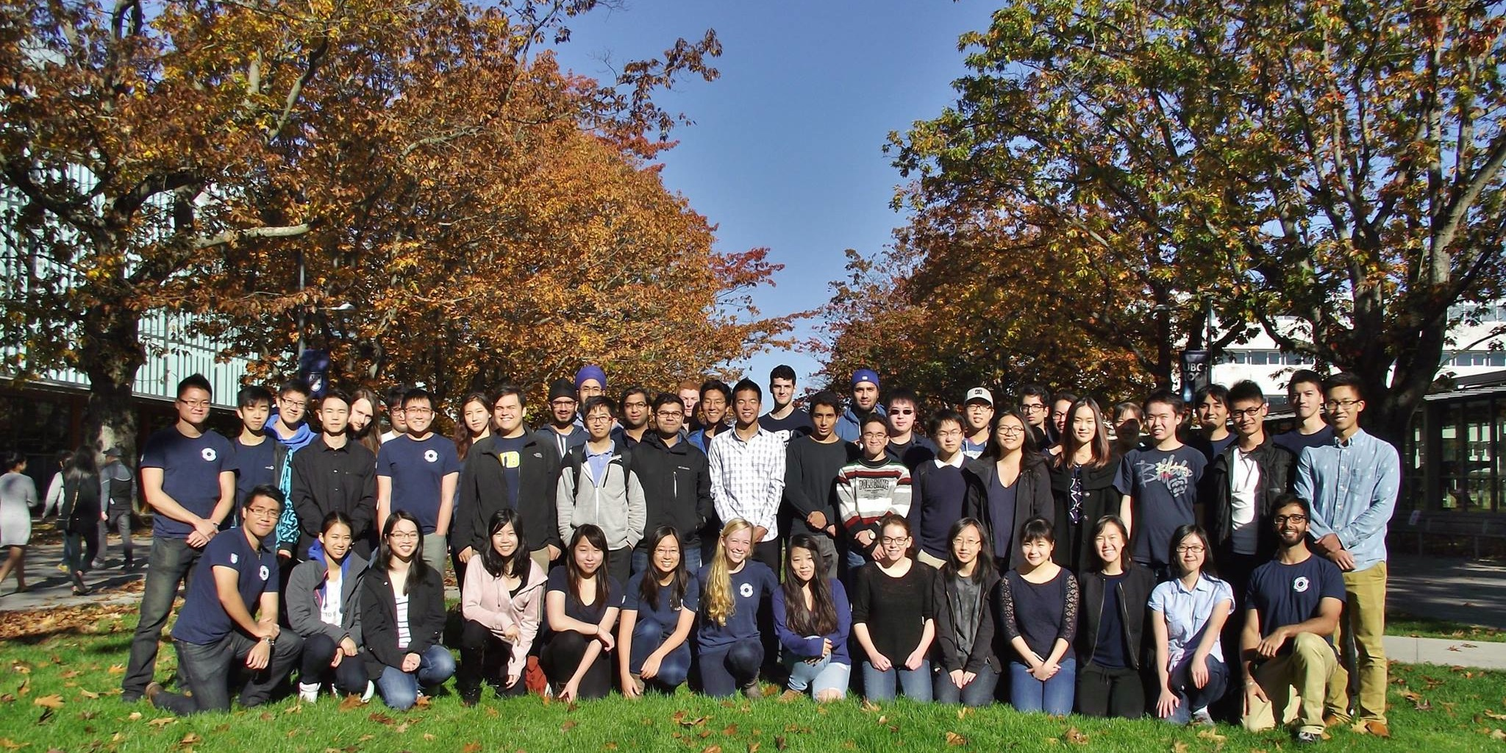
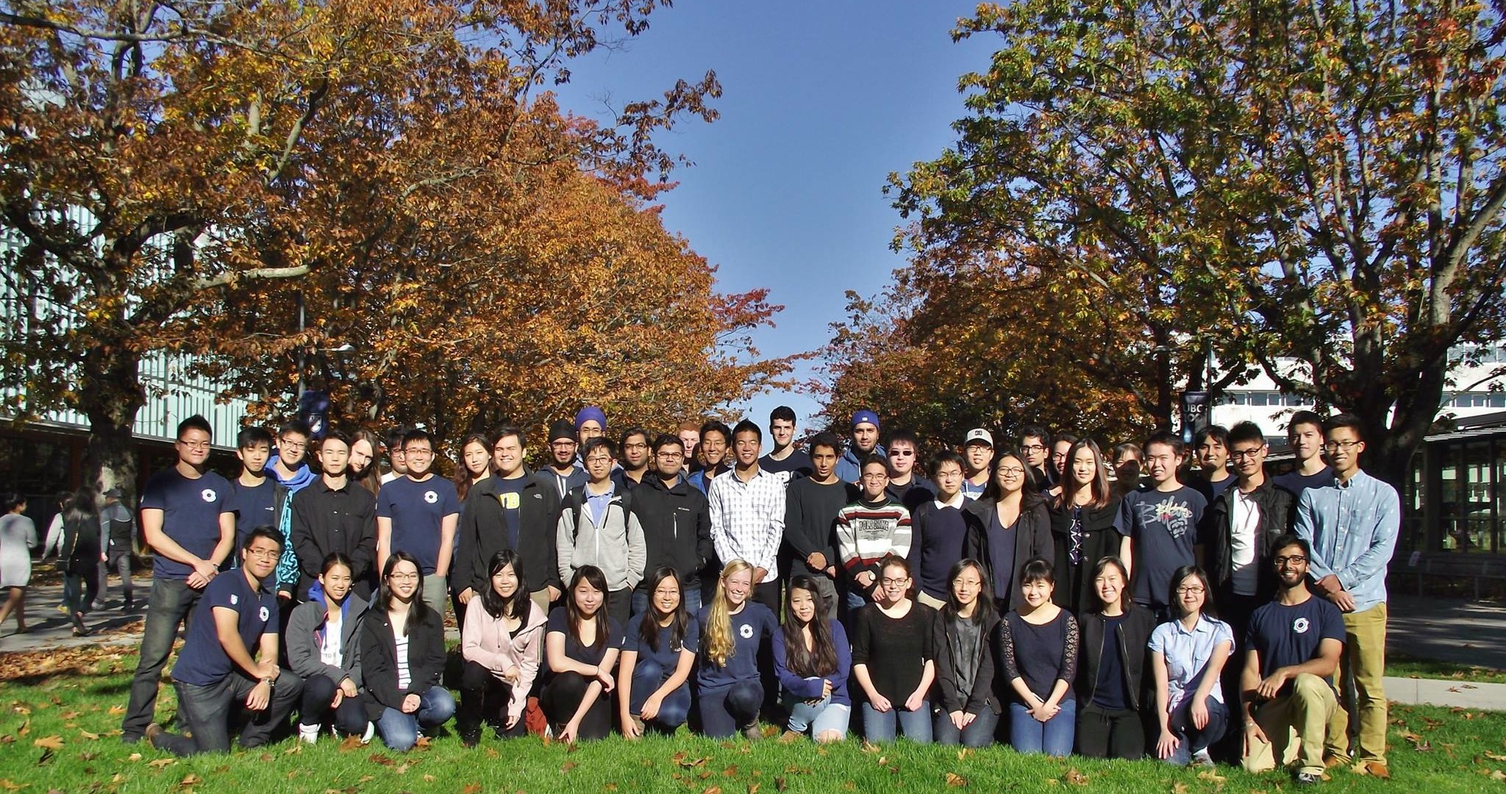
Updated bg photo for team page

diff --git a/Roster/index.html b/Roster/index.html
@@ -145,41 +145,6 @@
     				</div>
 				</div>
            </div>
-           <!--end of row 1, start of row 2-->
-		    <div class = "row">
-				<div class = "col-md-3">
-					<div class="thumbnail">
-					  <img data-src="holder.js/300x200" alt="">
-					  <h4>Thumbnail label</h4>
-					  <p>Thumbnail caption...</p>
-    				</div>
-				</div>
-				
-				<div class = "col-md-3">
-					<div class="thumbnail">
-					  <img data-src="holder.js/300x200" alt="">
-					  <h4>Thumbnail label</h4>
-					  <p>Thumbnail caption...</p>
-    				</div>
-				</div>
-				
-				<div class = "col-md-3">
-					<div class="thumbnail">
-					  <img data-src="holder.js/300x200" alt="">
-					  <h4>Thumbnail label</h4>
-					  <p>Thumbnail caption...</p>
-    				</div>
-				</div>
-				
-				<div class = "col-md-3">
-					<div class="thumbnail">
-					  <img data-src="holder.js/300x200" alt="">
-					  <h4>Thumbnail label</h4>
-					  <p>Thumbnail caption...</p>
-    				</div>
-				</div>
-           </div>
-             <!--end of row2, start of row 3-->
           </div> 
         </div>
  </section>

diff --git a/Roster/roster_main.css b/Roster/roster_main.css
@@ -23,7 +23,7 @@ h3,
 h4,
 h5,
 h6 {
-    margin: 0 0 35px;
+    margin: 0 0 15px;
     text-transform: uppercase;
     font-family: Montserrat,"Helvetica Neue",Helvetica,Arial,sans-serif;
     font-weight: 700;
